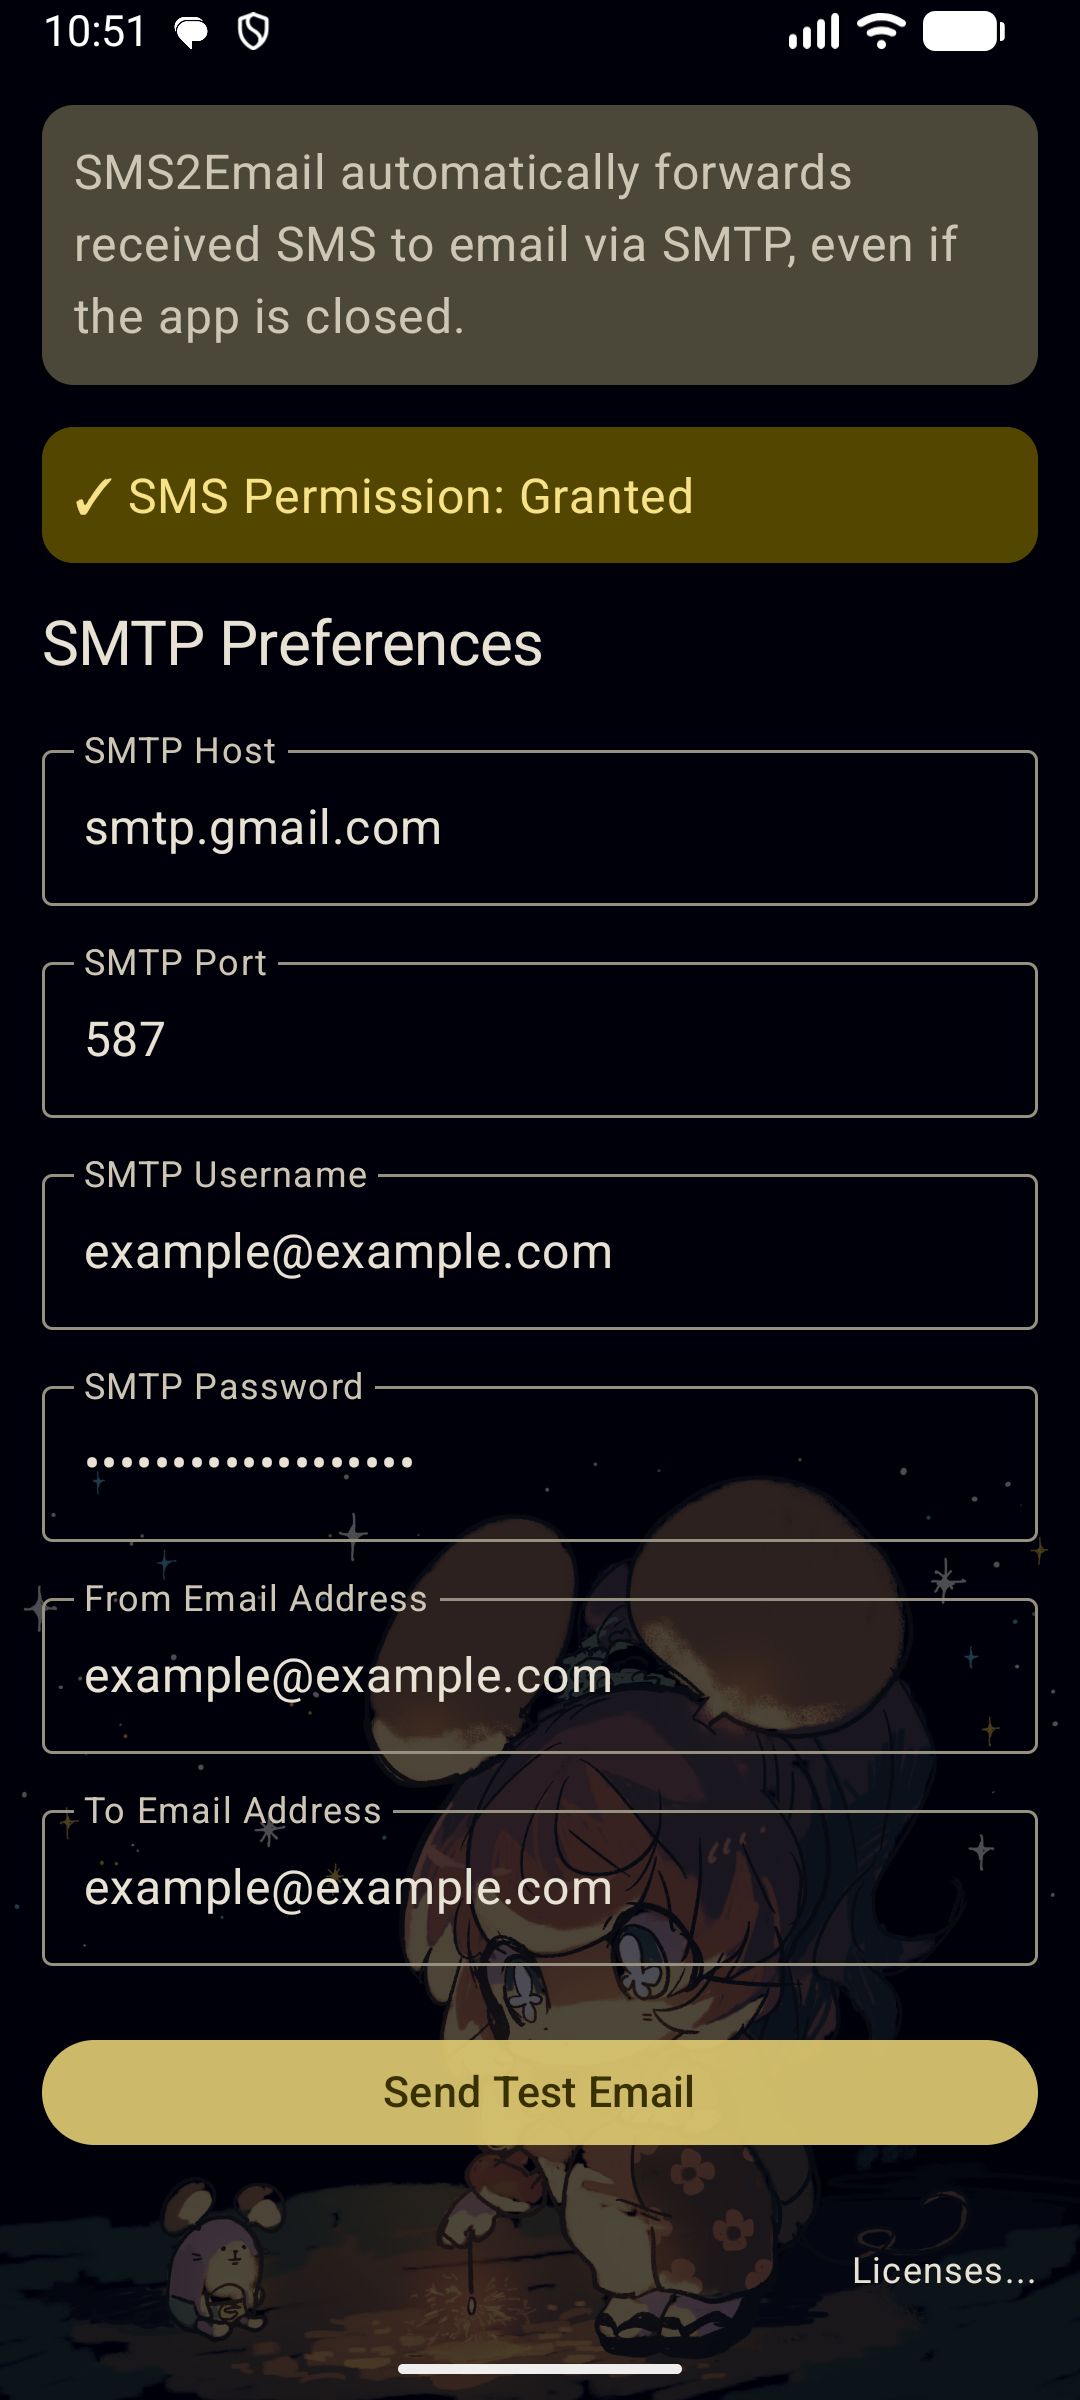
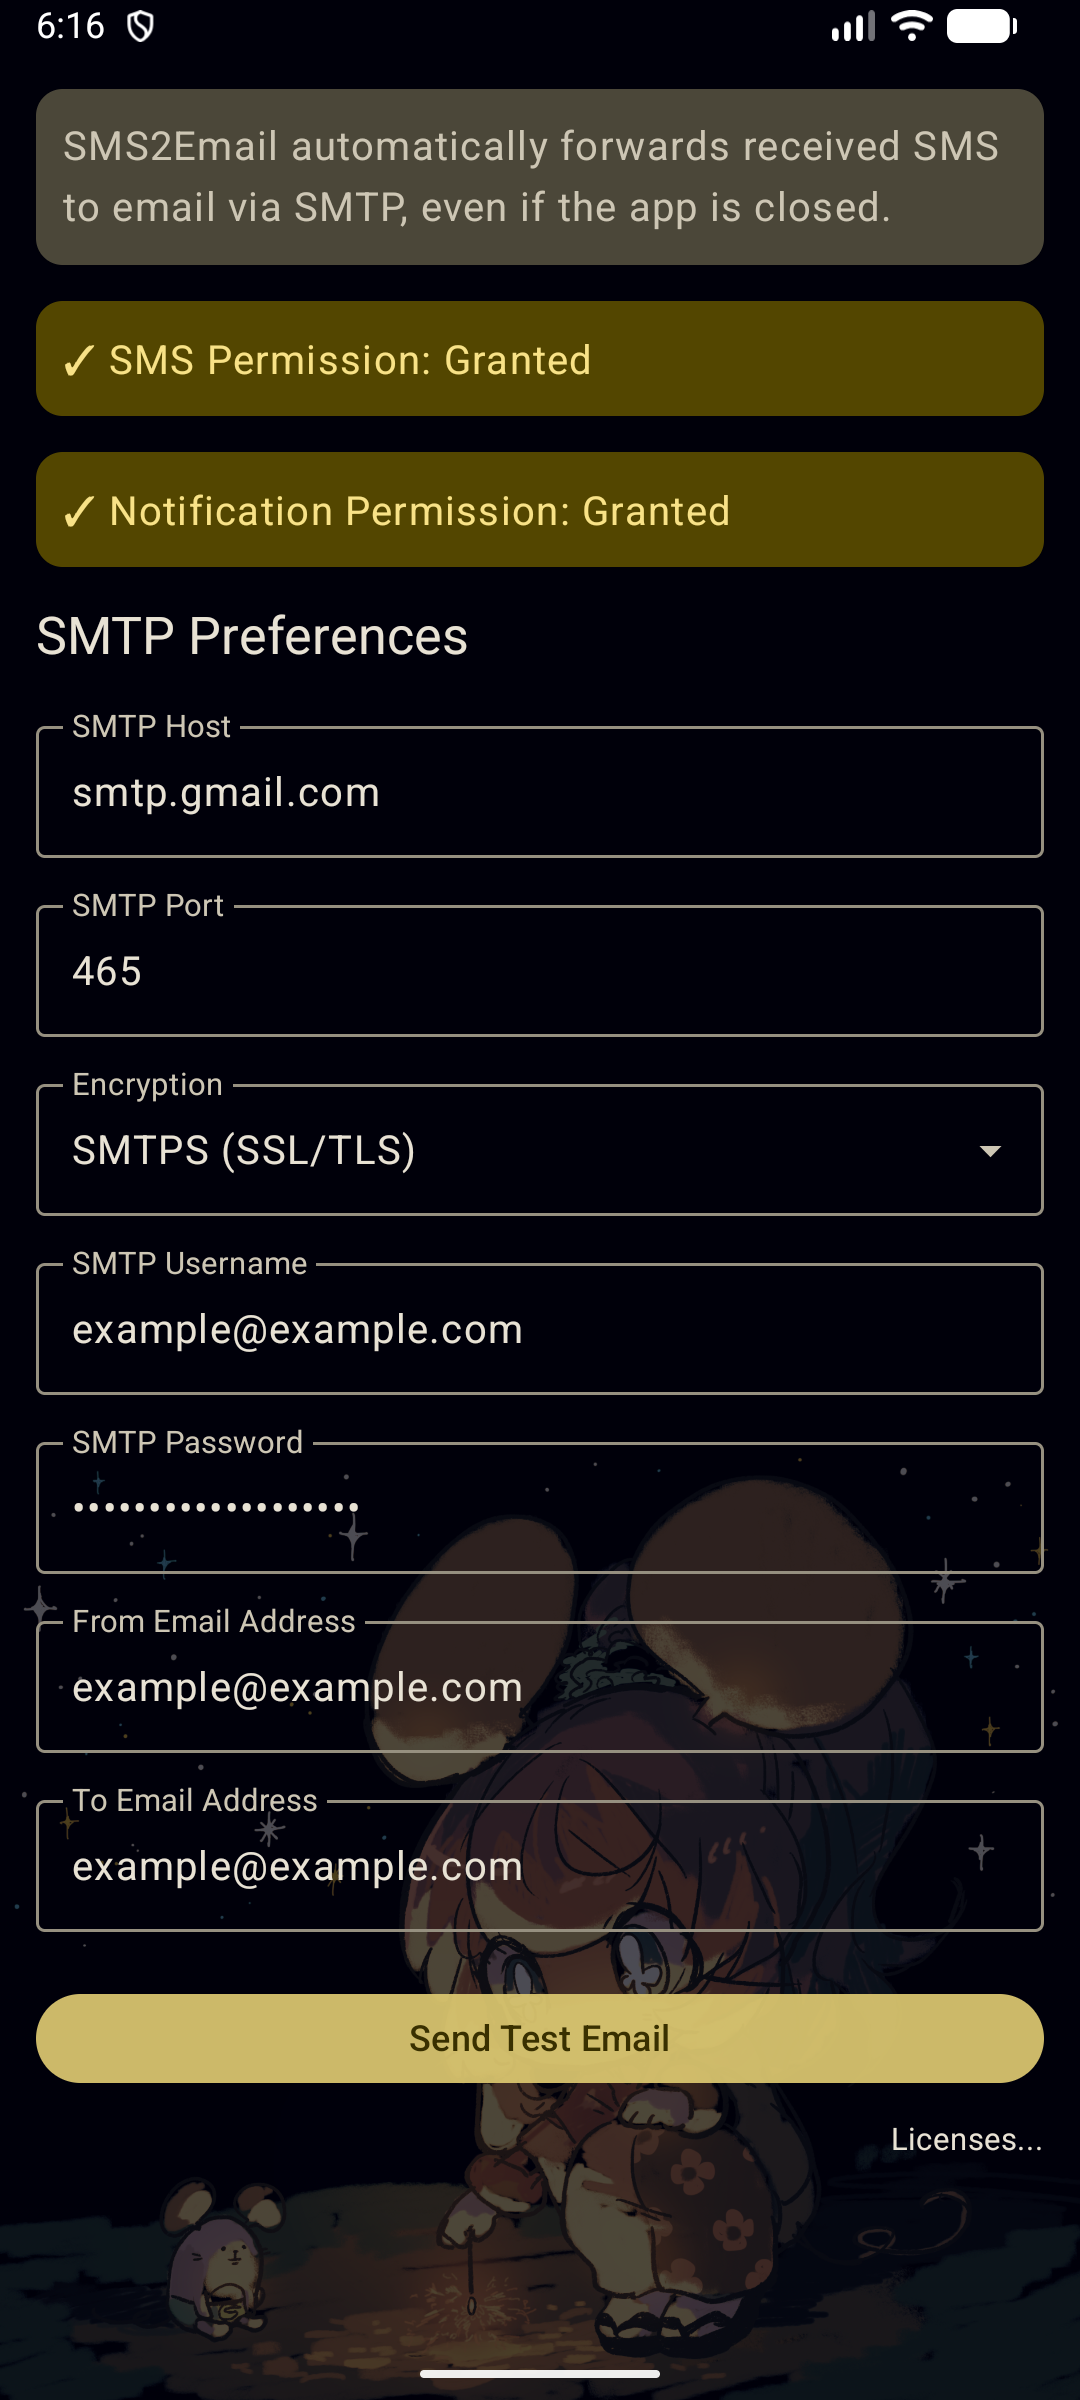
fix: fix title color in MainActivity, update README.md and metadata, set Renovate commit type to chore (#23)

diff --git a/app/src/main/java/com/mikoz/sms2email/MainActivity.kt b/app/src/main/java/com/mikoz/sms2email/MainActivity.kt
@@ -321,6 +321,7 @@ fun MailPreferencesScreen(
       Text(
           text = "SMTP Preferences",
           style = MaterialTheme.typography.titleLarge,
+          color = MaterialTheme.colorScheme.onBackground,
           modifier = Modifier.padding(bottom = 16.dp),
       )
 

diff --git a/README.md b/README.md
@@ -4,6 +4,13 @@ An Android application that forwards incoming SMS messages to a specified email 
 
 This app is useful for users who need to access their SMS messages remotely.
 
+<p align="center"><a href="https://f-droid.org/packages/io.github.sms2email.sms2email"><img src="https://fdroid.gitlab.io/artwork/badge/get-it-on.png" alt="Get it on F-Droid"  width="207" /></a>
+<a href="https://apt.izzysoft.de/fdroid/index/apk/io.github.sms2email.sms2email"><img src="https://raw.githubusercontent.com/InfinityLoop1308/PipePipe/refs/tags/v5.0.0-beta4/assets/IzzyOnDroid.png" alt="Get it on IzzyOnDroid" width="207" /></a></p>
+
 | 🌙                                                                        | ☀                                                                         |
 | ------------------------------------------------------------------------- | -------------------------------------------------------------------------- |
 | ![Screenshot](metadata/en-US/images/phoneScreenshots/screenshot_dark.png) | ![Screenshot](metadata/en-US/images/phoneScreenshots/screenshot_light.png) |
+
+![IzzyOnDroid Badge](https://img.shields.io/endpoint?url=https://apt.izzysoft.de/fdroid/api/v1/shield/io.github.sms2email.sms2email&label=IzzyOnDroid&style=flat-square)
+[![IzzyOnDroid Yearly Downloads](https://img.shields.io/badge/dynamic/json?url=https://dlstats.izzyondroid.org/iod-stats-collector/stats/basic/yearly/rolling.json&query=$.['io.github.sms2email.sms2email']&label=IzzyOnDroid%20yearly%20downloads&style=flat-square)](https://apt.izzysoft.de/packages/io.github.sms2email.sms2email)
+[![RB Status](https://shields.rbtlog.dev/simple/io.github.sms2email.sms2email?style=flat-square)](https://shields.rbtlog.dev/io.github.sms2email.sms2email)
